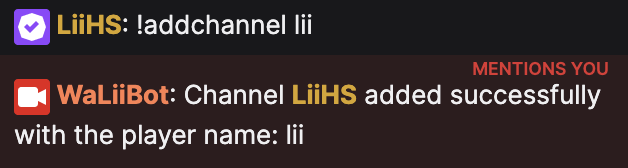
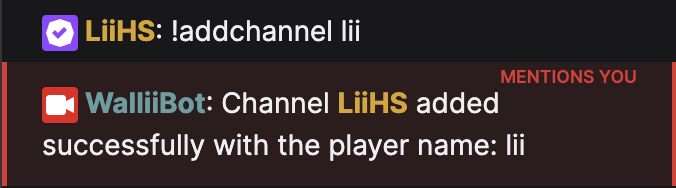
Replace images for help and change walliibot channel name

Changed region(s): [[0.0, 0.0, 1.0, 1.0]]

diff --git a/app/help/page.tsx b/app/help/page.tsx
@@ -57,12 +57,12 @@ export default function HelpPage() {
         <Typography variant="body1" gutterBottom>
           These commands must be used in Twitch chat on{" "}
           <a
-            href="https://twitch.tv/WaLiiBot"
+            href="https://twitch.tv/WalliiBot"
             target="_blank"
             rel="noopener noreferrer"
             style={{ color: "#60A5FA" }}
           >
-            twitch.tv/WaLiiBot
+            twitch.tv/WalliiBot
           </a>:
         </Typography>
 
